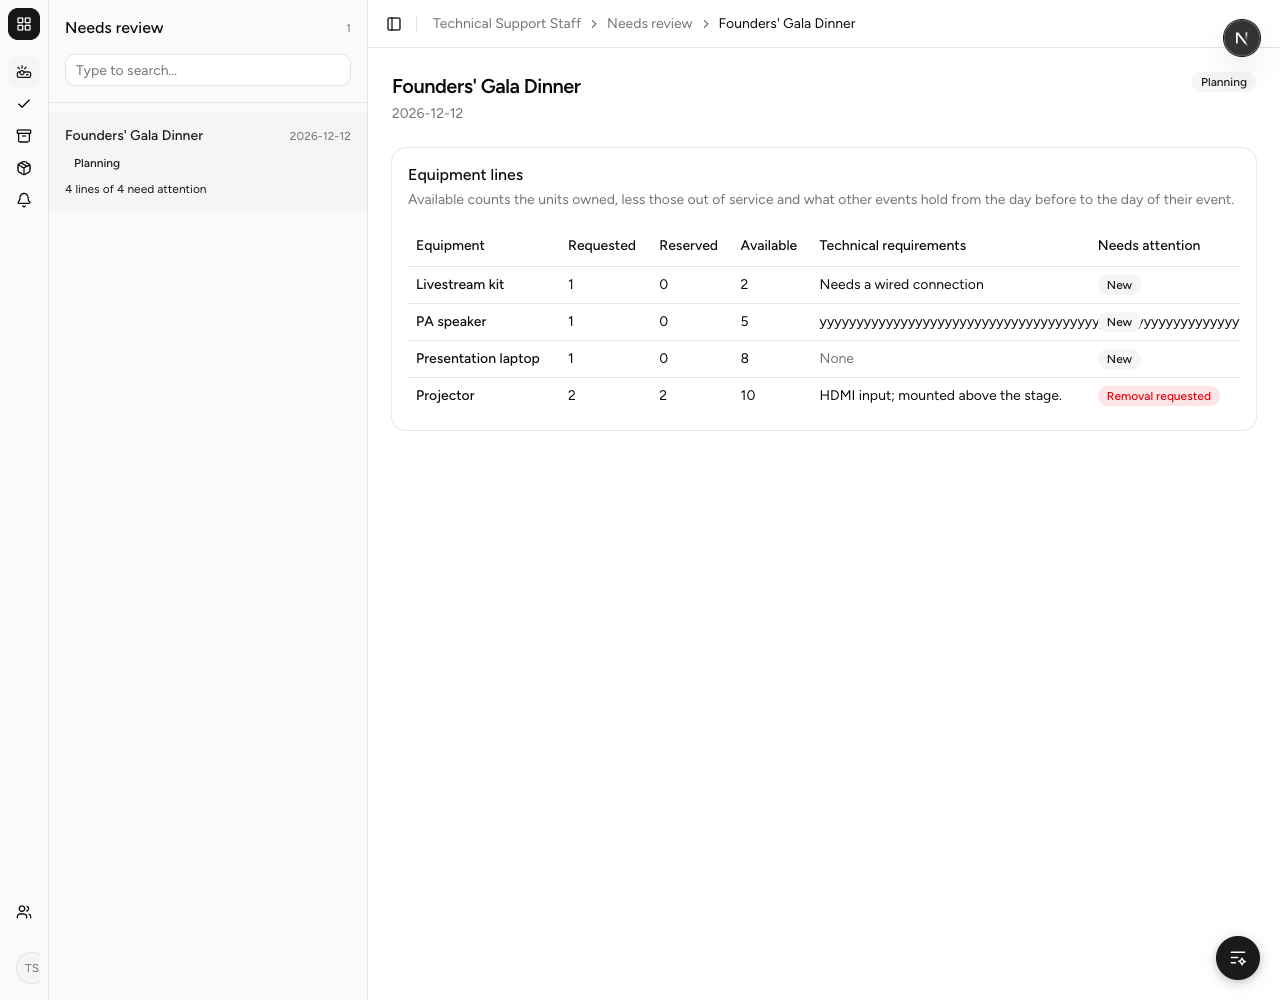
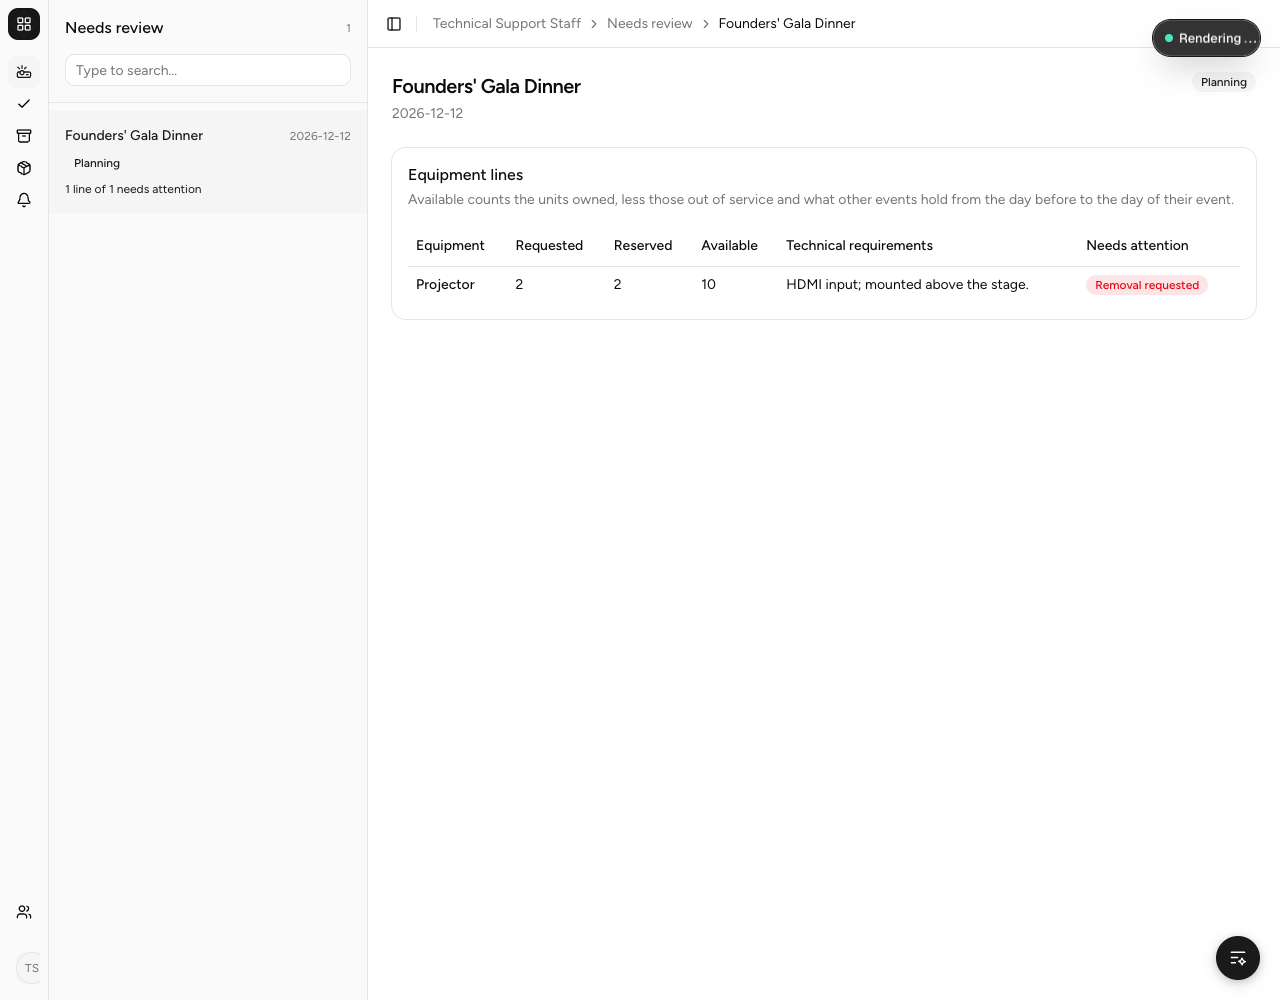
docs(testing): record the TC-EQUIP re-run as passing

diff --git a/docs/testing/EQUIPMENT_MANUAL_TESTS.md b/docs/testing/EQUIPMENT_MANUAL_TESTS.md
@@ -44,9 +44,8 @@ Needs review list and the event's equipment page.
 into the SPM-41 branch (see each case's Status and Screenshots). A browser script drove the cases and checked each expected result,
 including the database checks (85 checks in all); the screenshots are in [`../screenshots/`](../screenshots/).
 
-**Re-run 9/10/2026 (SPM-277, after the equipment counts changed):** TC-EQUIP-001, 002, 006, 007, 009, 014 and 015 pass.
-TC-EQUIP-012, 013, 016 and 017 pass every step except the Needs review list check, which fails: the unreserved lines
-TC-EQUIP-001 and 002 add are New, so the event stays listed (see each case's Status).
+**Re-run 9/10/2026 (SPM-277, after the equipment counts changed):** all cases pass. TC-EQUIP-012 now starts by removing the three
+unreserved lines TC-EQUIP-001 and 002 leave, so Technical Support's list holds only the Projector's changes.
 
 **Run the cases in order**, or re-seed (below) between them: TC-EQUIP-013 changes
 the reserved Projector line, and later cases expect that.
@@ -186,7 +185,7 @@ against is New and keeps the event on Technical Support's list, and the checks b
   after these three steps: the only line left, the Projector, is reserved and unchanged.
   (Before step 3 the event was listed, its unreserved microphone being **New**.)
 
-**Status:** [ ] Pass [x] Fail — 9/10/2026, run in Chrome via Playwright for JameszLau. Every step passes except the last check: the list says "3 lines of 4 need attention", not "Nothing needs your attention.". The Livestream kit, PA speaker and Presentation laptop lines added in TC-EQUIP-001 and 002 have nothing reserved, so each is New and keeps the event listed. Not caused by SPM-277.
+**Status:** [x] Pass [ ] Fail — 9/10/2026, run in Chrome via Playwright for JameszLau
 
 **Screenshots:** [step1-microphone-edited](../screenshots/2026-10-09_TC-EQUIP-012_step1-microphone-edited.png) · [step2-projector-saved-unchanged](../screenshots/2026-10-09_TC-EQUIP-012_step2-projector-saved-unchanged.png) · [step3-microphone-removed](../screenshots/2026-10-09_TC-EQUIP-012_step3-microphone-removed.png) · [step3-support-list](../screenshots/2026-10-09_TC-EQUIP-012_step3-support-list.png)
 
@@ -217,7 +216,7 @@ This is the end-to-end case across both roles.
 - In the database, the Projector's `line_state` is now `Under review` and its
   `quantity_reserved` is still `2` (query in TC-EQUIP-009).
 
-**Status:** [ ] Pass [x] Fail — 9/10/2026, run in Chrome via Playwright for JameszLau. Every step passes except step 4: the list says "4 lines of 4 need attention", not "1 line of 1 needs attention". The Livestream kit, PA speaker and Presentation laptop lines added in TC-EQUIP-001 and 002 have nothing reserved, so each is New and keeps the event listed. Not caused by SPM-277.
+**Status:** [x] Pass [ ] Fail — 9/10/2026, run in Chrome via Playwright for JameszLau
 
 **Screenshots:** [step2-warning](../screenshots/2026-10-09_TC-EQUIP-013_step2-warning.png) · [step3-line-needs-recheck](../screenshots/2026-10-09_TC-EQUIP-013_step3-line-needs-recheck.png) · [step4-event-page-changed](../screenshots/2026-10-09_TC-EQUIP-013_step4-event-page-changed.png) · [step4-needs-review-list](../screenshots/2026-10-09_TC-EQUIP-013_step4-needs-review-list.png)
 
@@ -421,7 +420,7 @@ review; changing it back to exactly that means there is nothing for them to re-c
 - Step 6: `line_state` is `Reserved`, `quantity_requested` and `quantity_reserved` are both `2`,
   and `reviewed_quantity_requested` is empty.
 
-**Status:** [ ] Pass [x] Fail — 9/10/2026, run in Chrome via Playwright for JameszLau. Every step passes except step 5: the list says "3 lines of 4 need attention", not "Nothing needs your attention.". The Livestream kit, PA speaker and Presentation laptop lines added in TC-EQUIP-001 and 002 have nothing reserved, so each is New and keeps the event listed. Not caused by SPM-277.
+**Status:** [x] Pass [ ] Fail — 9/10/2026, run in Chrome via Playwright for JameszLau
 
 **Screenshots:** [step1-projector-1](../screenshots/2026-10-09_TC-EQUIP-016_step1-projector-1.png) · [step2-support-was-2](../screenshots/2026-10-09_TC-EQUIP-016_step2-support-was-2.png) · [step4-back-to-normal](../screenshots/2026-10-09_TC-EQUIP-016_step4-back-to-normal.png) · [step5-nothing-needs-attention](../screenshots/2026-10-09_TC-EQUIP-016_step5-nothing-needs-attention.png)
 
@@ -460,7 +459,7 @@ Signed in as `coordinator@test.com`.
 - Step 5: `line_state` is `Reserved`, `reviewed_quantity_requested` is empty, and
   `removal_requested` is `false`.
 
-**Status:** [ ] Pass [x] Fail — 9/10/2026, run in Chrome via Playwright for JameszLau. Every step passes except step 4: the list says "3 lines of 4 need attention", not "Nothing needs your attention.". The Livestream kit, PA speaker and Presentation laptop lines added in TC-EQUIP-001 and 002 have nothing reserved, so each is New and keeps the event listed. Not caused by SPM-277.
+**Status:** [x] Pass [ ] Fail — 9/10/2026, run in Chrome via Playwright for JameszLau
 
 **Screenshots:** [step1-removal-requested](../screenshots/2026-10-09_TC-EQUIP-017_step1-removal-requested.png) · [step2-support-removal-requested](../screenshots/2026-10-09_TC-EQUIP-017_step2-support-removal-requested.png) · [step3-undo-clears-recheck](../screenshots/2026-10-09_TC-EQUIP-017_step3-undo-clears-recheck.png) · [step4-nothing-needs-attention](../screenshots/2026-10-09_TC-EQUIP-017_step4-nothing-needs-attention.png)
 
